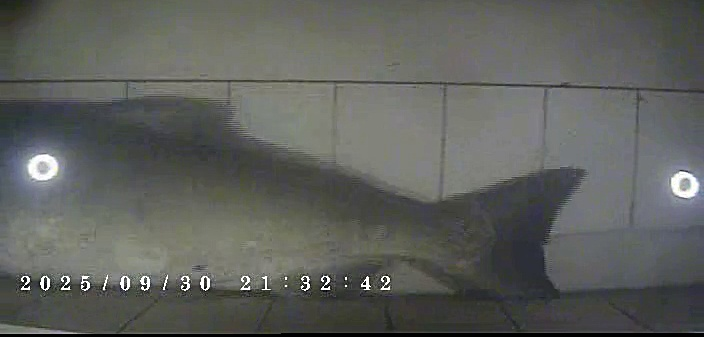
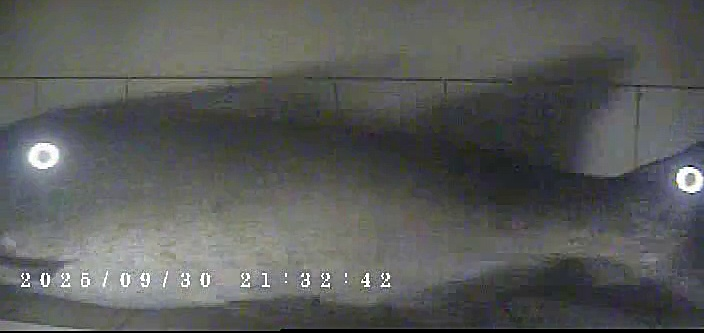
Fixed some direction logic

diff --git a/main.py b/main.py
@@ -175,6 +175,7 @@ class VideoData:
         self.v_confidence_sum = 0.0
         self.v_confidence_count = 0 
         self.v_video_timestamp = None
+        self.frame_width = 640
 
 
 @contextmanager
@@ -566,6 +567,12 @@ def run_video_tracker(video_path, source_video_path=None):
     vidData.v_fps = cap.get(cv2.CAP_PROP_FPS) or FPS_DEFAULT
     ret, frame = _video_capture_read(cap)
 
+    if ret and frame is not None:
+        try:
+            vidData.frame_width = int(frame.shape[1])
+        except Exception:
+            pass
+
     # Pre-compute a video-level timestamp fallback from early frames.
     if ret and frame is not None:
         vidData.v_video_timestamp = probe_video_timestamp(
@@ -579,6 +586,12 @@ def run_video_tracker(video_path, source_video_path=None):
     # Cycle through video frames until end of video
     while ret:
         vidData.v_current_track_ids = set()
+
+        if frame is not None:
+            try:
+                vidData.frame_width = int(frame.shape[1])
+            except Exception:
+                pass
 
         # Speed mode: process every Nth frame
         if FRAME_STRIDE > 1 and (vidData.v_frame_index % FRAME_STRIDE) != 0:
@@ -889,22 +902,34 @@ def build_track_summary(trackId, track_data, frameData, vidData, image_path=None
     exit_side = "left" if exit_x < frame_width / 2 else "right"
     
     # Determine direction
-    if entry_side == exit_side:
-        # Fish entered and exited from same side - indecisive
-        overall_direction = "indecisive"
+    directions = track_data["directions"]
+    upstream_count = directions.count("upstream") if directions else 0
+    downstream_count = directions.count("downstream") if directions else 0
+    directional_votes = upstream_count + downstream_count
+    net_dx = float(exit_x) - float(entry_x)
+    min_net_dx = max(6.0, float(frame_width) * 0.02)
+
+    overall_direction = "indecisive"
+    if entry_side != exit_side:
+        # Fish crossed frame halves: use tracker vote first.
+        if upstream_count > downstream_count:
+            overall_direction = "upstream"
+        elif downstream_count > upstream_count:
+            overall_direction = "downstream"
+        elif net_dx <= -min_net_dx:
+            overall_direction = "upstream"
+        elif net_dx >= min_net_dx:
+            overall_direction = "downstream"
     else:
-        # Fish crossed from one side to other - use direction counts
-        directions = track_data["directions"]
-        overall_direction = "unknown"
-        if directions:
-            upstream_count = directions.count("upstream")
-            downstream_count = directions.count("downstream")
-            if upstream_count > downstream_count:
-                overall_direction = "upstream"
-            elif downstream_count > upstream_count:
-                overall_direction = "downstream"
-            else:
-                overall_direction = directions[-1]
+        # Same-side tracks can still have clear direction from net movement.
+        if travel_px >= MIN_TRACK_TRAVEL_PX and net_dx <= -min_net_dx:
+            overall_direction = "upstream"
+        elif travel_px >= MIN_TRACK_TRAVEL_PX and net_dx >= min_net_dx:
+            overall_direction = "downstream"
+        elif directional_votes >= 3:
+            vote_ratio = max(upstream_count, downstream_count) / max(1, directional_votes)
+            if vote_ratio >= 0.70:
+                overall_direction = "upstream" if upstream_count > downstream_count else "downstream"
 
     # Reject low-motion indecisive tracks (common glare/debris false positives).
     if overall_direction == "indecisive" and travel_px < MIN_TRACK_TRAVEL_PX:
